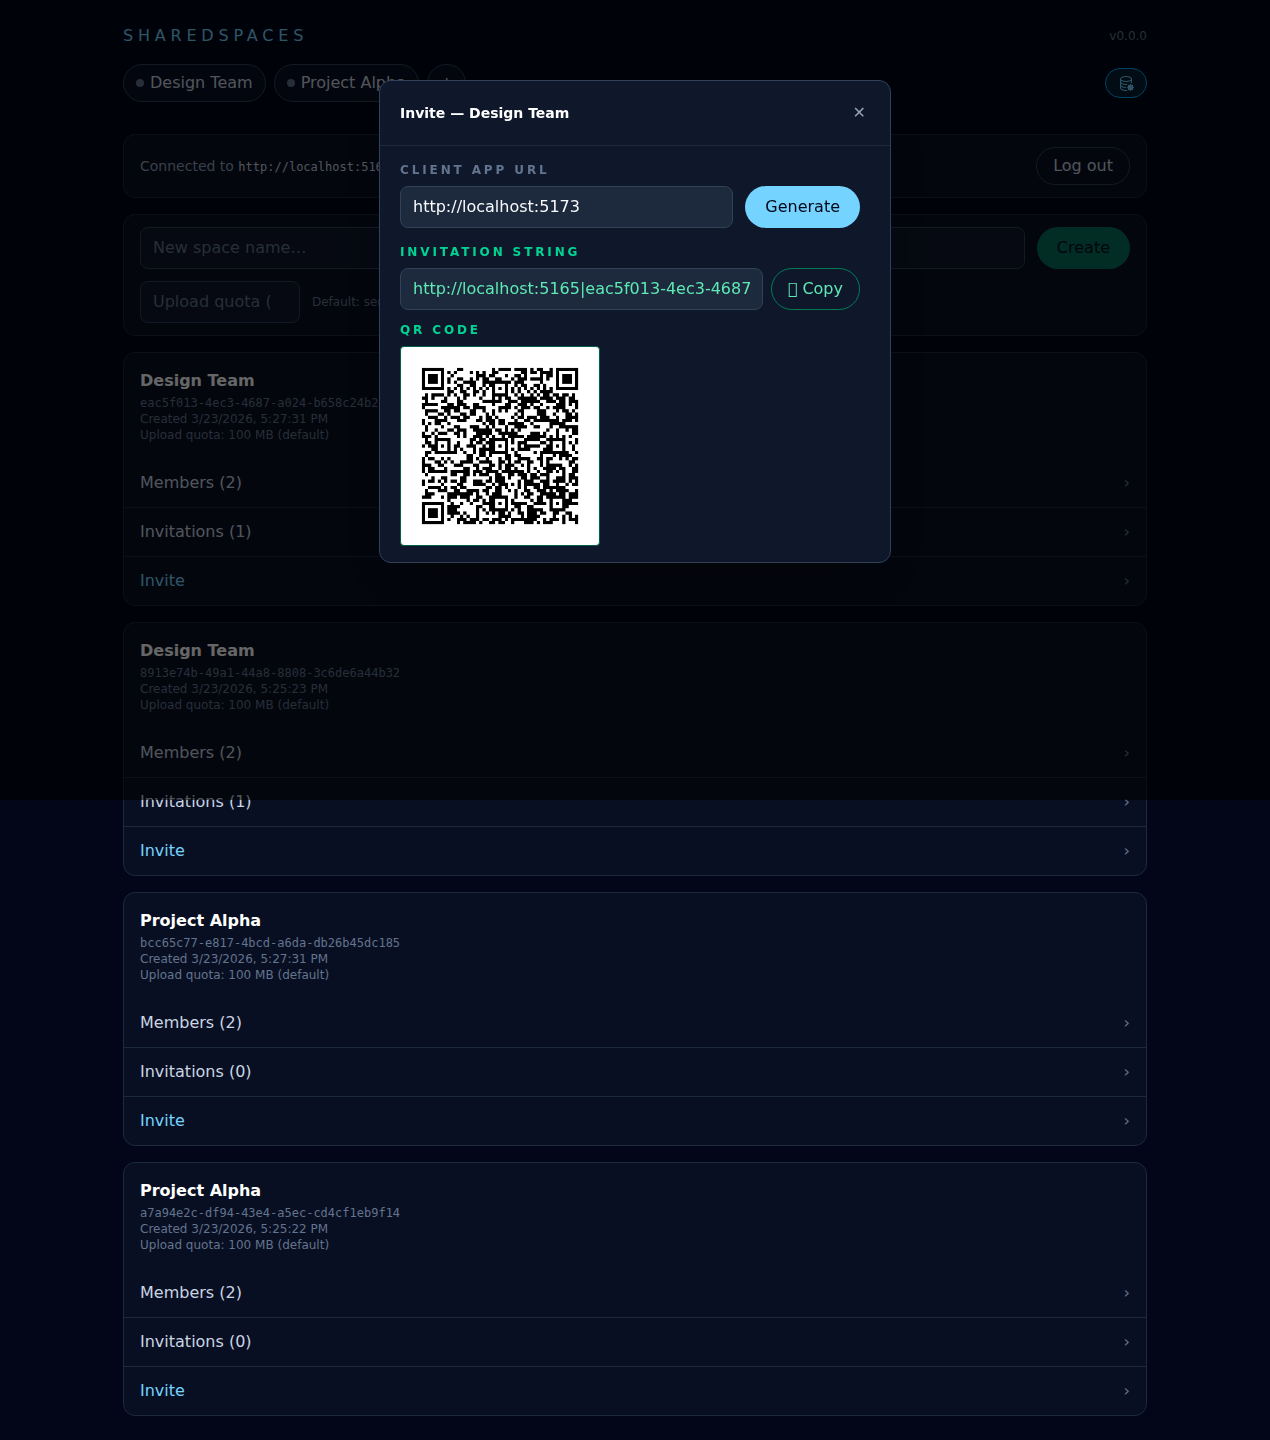
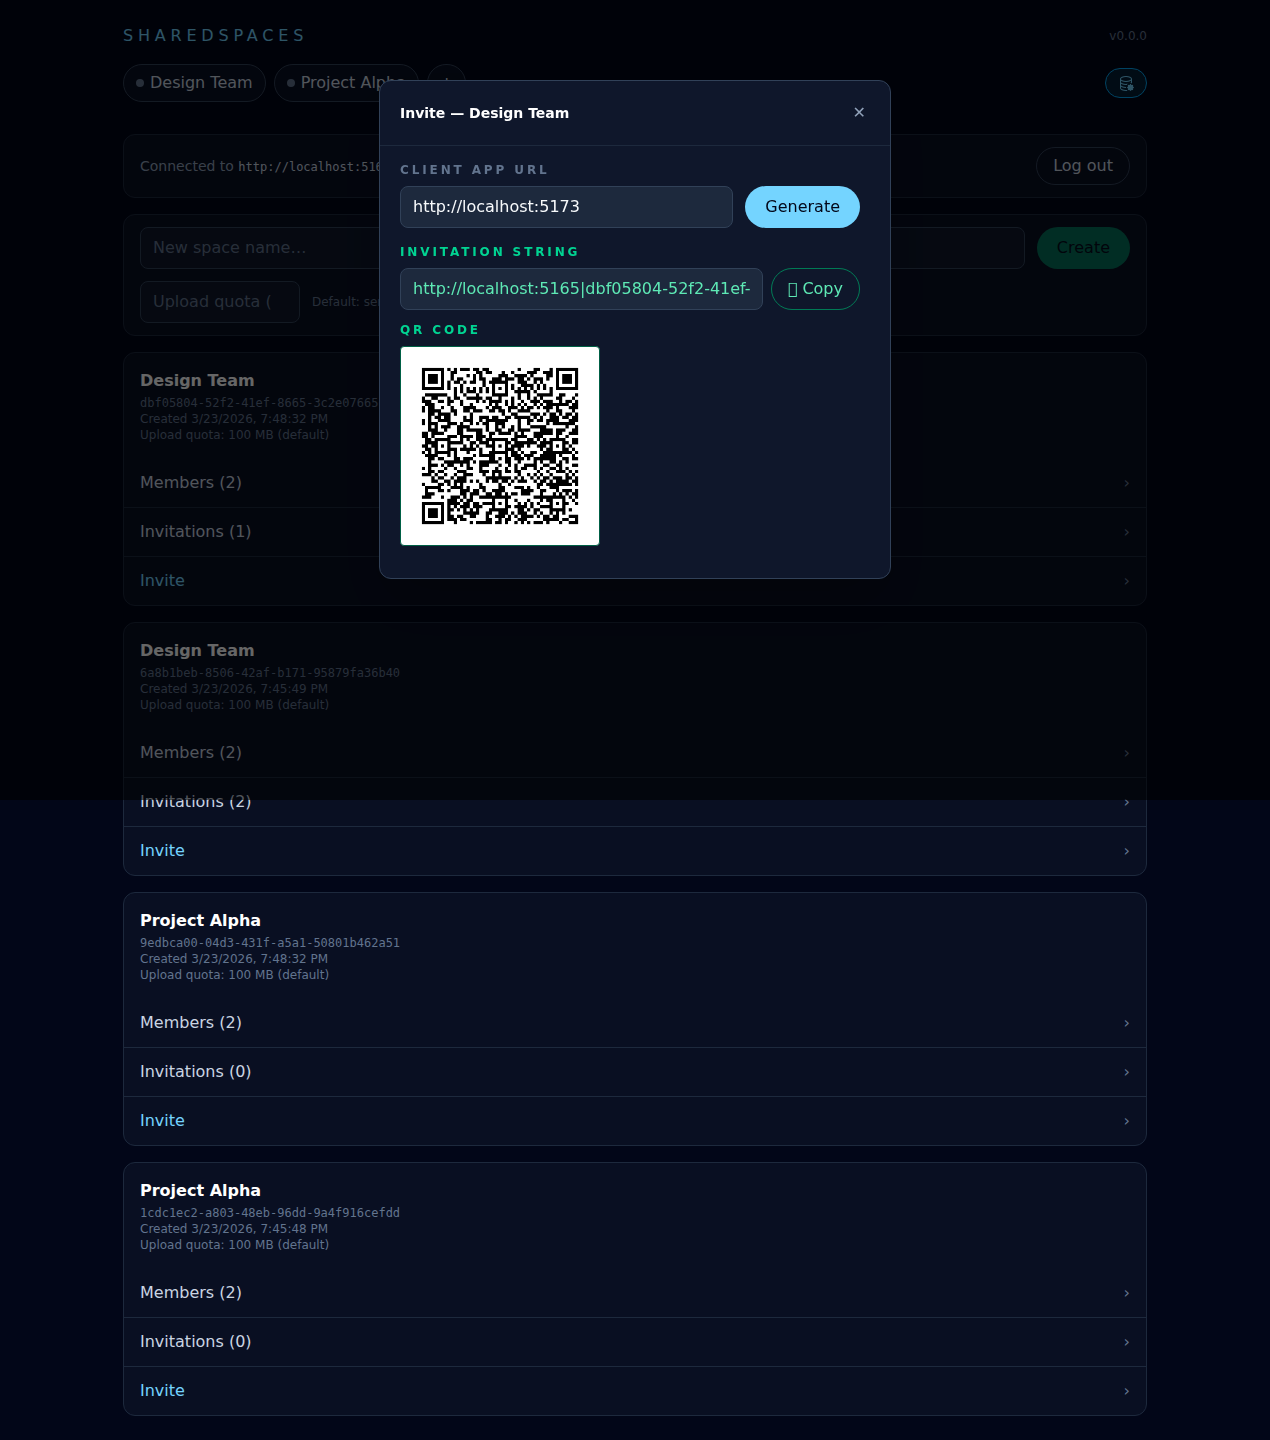
fix: add bottom padding to invitation modal and increase mobile max-height
- Add pb-4 to generated invitation content for spacing below QR code
- Increase modal content max-height from 60vh to 75vh so invite content
  fits on mobile without clipping the bottom padding
- Refresh admin-invite screenshots

diff --git a/src/SharedSpaces.Client/src/features/admin/admin-view.ts b/src/SharedSpaces.Client/src/features/admin/admin-view.ts
@@ -999,7 +999,7 @@ export class AdminView extends BaseElement {
             </button>
           </div>
 
-          <div class="max-h-[60vh] overflow-y-auto px-5 py-4">
+          <div class="max-h-[75vh] overflow-y-auto px-5 py-4">
             ${content}
           </div>
         </div>
@@ -1182,7 +1182,7 @@ export class AdminView extends BaseElement {
 
   private renderGeneratedInvitation(invitation: InvitationResponse) {
     return html`
-      <div class="space-y-3">
+      <div class="space-y-3 pb-4">
         <div class="space-y-2">
           <p class="text-xs font-semibold uppercase tracking-[0.24em] text-emerald-400">
             Invitation String
